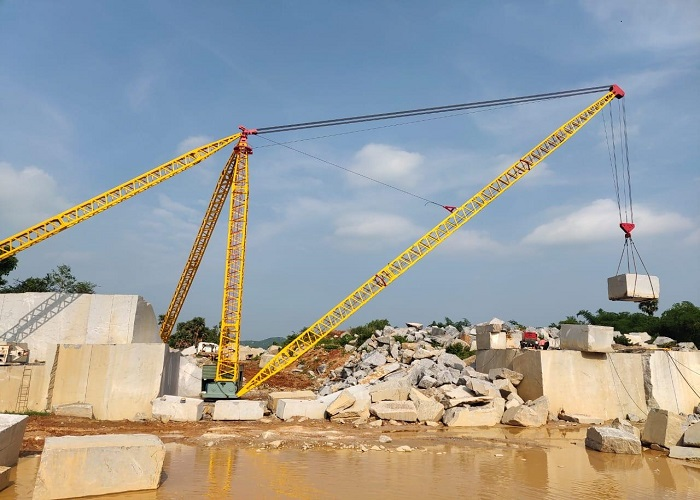
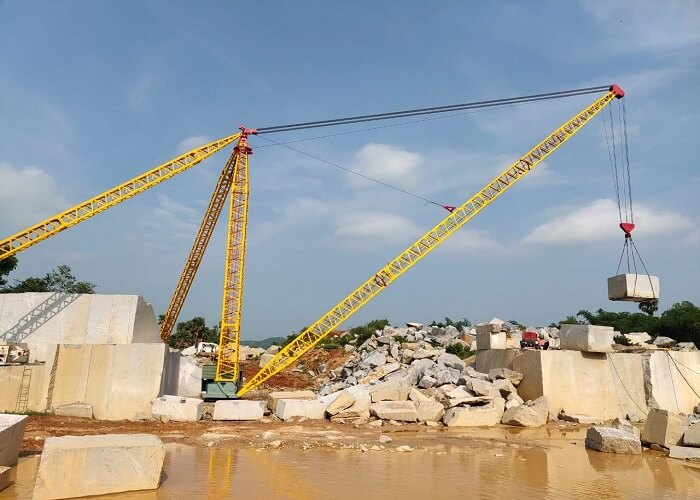
compressed images

diff --git a/index.html b/index.html
@@ -152,44 +152,44 @@
         <div class="swiper-slide">
           <div class="row event-item">
             <div class="col-lg-12">
-              <img src="assets/img/slider-img/1.webp" class="img-fluid" alt="">
+              <img src="assets/img/slider-img/1.JPG" class="img-fluid" alt="">
             </div>
 
           </div>
         </div><!-- End testimonial item -->
 
-        <div class="swiper-slide">
+        <!-- <div class="swiper-slide">
           <div class="row event-item">
             <div class="col-lg-12">
               <img src="assets/img/slider-img/2.webp" class="img-fluid" alt="">
             </div>
 
           </div>
-        </div><!-- End testimonial item -->
+        </div> -->
 
 
         <div class="swiper-slide">
           <div class="row event-item">
             <div class="col-lg-12">
-              <img src="assets/img/slider-img/3.webp" class="img-fluid" alt="">
+              <img src="assets/img/slider-img/3.JPG" class="img-fluid" alt="">
             </div>
 
           </div>
         </div><!-- End testimonial item -->
 
-        <div class="swiper-slide">
+        <!-- <div class="swiper-slide">
           <div class="row event-item">
             <div class="col-lg-12">
               <img src="assets/img/slider-img/4.webp" class="img-fluid" alt="">
             </div>
 
           </div>
-        </div><!-- End testimonial item -->
+        </div> -->
 
         <div class="swiper-slide">
           <div class="row event-item">
             <div class="col-lg-12">
-              <img src="assets/img/slider-img/5.webp" class="img-fluid" alt="">
+              <img src="assets/img/slider-img/5.jpg" class="img-fluid" alt="">
             </div>
 
           </div>
@@ -198,7 +198,7 @@
         <div class="swiper-slide">
           <div class="row event-item">
             <div class="col-lg-12">
-              <img src="assets/img/slider-img/6.webp" class="img-fluid" alt="">
+              <img src="assets/img/slider-img/6.jpg" class="img-fluid" alt="">
             </div>
 
           </div>
@@ -207,20 +207,20 @@
         <div class="swiper-slide">
           <div class="row event-item">
             <div class="col-lg-12">
-              <img src="assets/img/slider-img/7.webp" class="img-fluid" alt="">
+              <img src="assets/img/slider-img/7.jpg" class="img-fluid" alt="">
             </div>
 
           </div>
         </div><!-- End testimonial item -->
 
-        <div class="swiper-slide">
+        <!-- <div class="swiper-slide">
           <div class="row event-item">
             <div class="col-lg-12">
               <img src="assets/img/slider-img/8.webp" class="img-fluid" alt="">
             </div>
 
           </div>
-        </div><!-- End testimonial item -->
+        </div>
 
         <div class="swiper-slide">
           <div class="row event-item">
@@ -229,7 +229,7 @@
             </div>
 
           </div>
-        </div><!-- End testimonial item -->
+        </div>
 
         <div class="swiper-slide">
           <div class="row event-item">
@@ -238,7 +238,7 @@
             </div>
 
           </div>
-        </div><!-- End testimonial item -->
+        </div> -->
 
       </div>
     </div>
@@ -257,7 +257,7 @@
         <div class="row">
           <div class="col-lg-4 order-1 order-lg-2" data-aos="zoom-in" data-aos-delay="100">
             <div class="about-img">
-              <img src="assets/img/about.webp" alt="">
+              <img src="assets/img/about.jpg" alt="">
             </div>
           </div>
           <div class="col-lg-8 pt-4 pt-lg-0 order-2 order-lg-1 content">

diff --git a/assets/css/style.css b/assets/css/style.css
@@ -901,7 +901,7 @@ section {
 # About
 --------------------------------------------------------------*/
 .about {
-  background: url("../img/about-bg.webp") center center;
+  background: url("../img/about-bg.jpg") center center;
   background-size: cover;
   position: relative;
   padding-top: 50px;
